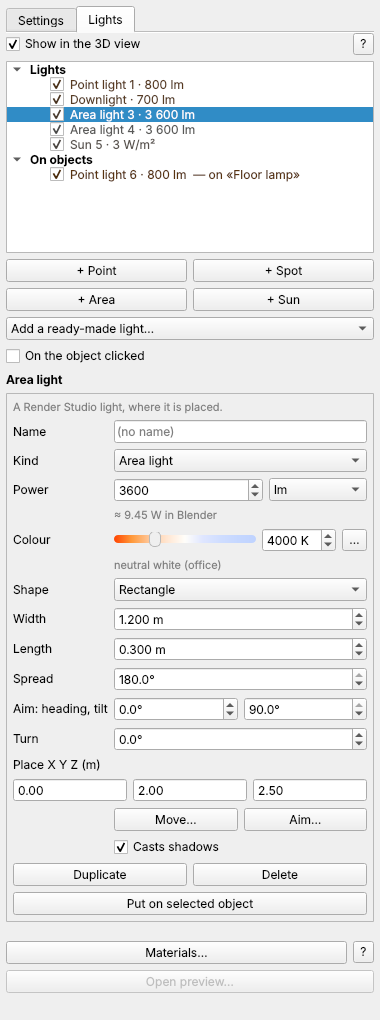
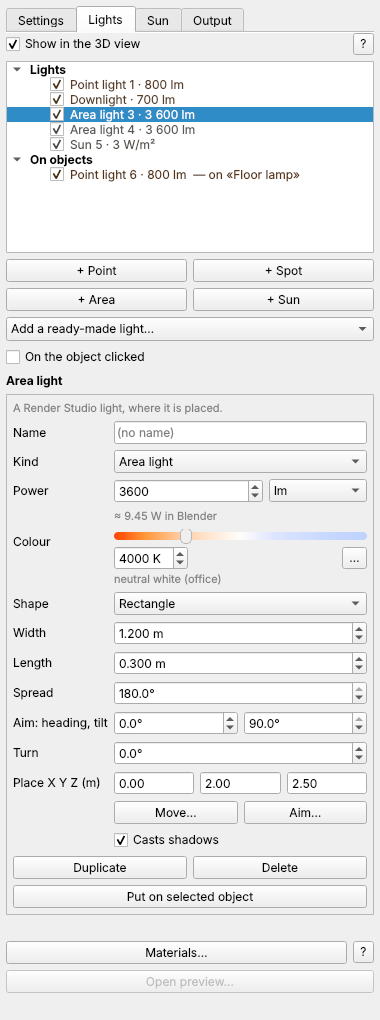
Render Studio 0.12.0: the new tabs fit a narrow tray
The colour temperature bar is on a line of its own and stretches; the
kelvins, the tone's name and «…» go under it. Number boxes no longer ask
for the width of their widest value (±1 000 000 for a place), list boxes
may be narrower than their longest entry, and the Sun tab's buttons have
no 80-pixel minimum (Morning / Noon / Evening, Spring / Summer / Autumn /
Winter). Each tab now needs about 212 px instead of 287; a test keeps it
under 230.

Claude-Session: https://claude.ai/code/session_01Ur1Gqby288dnbaSzKbx9Ps

diff --git a/render_studio/sun_panel.py b/render_studio/sun_panel.py
@@ -12,7 +12,7 @@ import math
 
 from PySide6.QtCore import QDate, Qt, QTime, QTimer
 from PySide6.QtWidgets import (QCheckBox, QComboBox, QDateEdit, QDoubleSpinBox, QFormLayout, QGridLayout,
-                               QHBoxLayout, QLabel, QPushButton, QSlider, QTimeEdit, QToolButton,
+                               QHBoxLayout, QLabel, QPushButton, QSizePolicy, QSlider, QTimeEdit, QToolButton,
                                QVBoxLayout, QWidget)
 
 from . import sun_site as S
@@ -24,6 +24,15 @@ def _bold(text: str) -> QLabel:
     f.setBold(True)
     lab.setFont(f)
     return lab
+
+
+def _wide_button(text: str) -> QToolButton:
+    """A button that fills its share of a row but, unlike a push button, has no
+    80-pixel minimum: three of them fit a narrow tray."""
+    b = QToolButton()
+    b.setText(text)
+    b.setSizePolicy(QSizePolicy.Expanding, QSizePolicy.Fixed)
+    return b
 
 
 def _note() -> QLabel:
@@ -71,13 +80,17 @@ class SunTab(QWidget):
         self.lon.setSuffix("°")
         self.lon.setToolTip("Longitude: east positive, west negative")
         for w in (self.lat, self.lon):
+            w.setMinimumWidth(72)                      # not as wide as ±180.0000 asks: the tray is narrow
+            w.setButtonSymbols(QDoubleSpinBox.NoButtons)   # typed, not stepped
+            w.setSizePolicy(QSizePolicy.Ignored, w.sizePolicy().verticalPolicy())
             w.setKeyboardTracking(False)
             w.valueChanged.connect(self._location_edited)
         lrow = QHBoxLayout()
         lrow.setContentsMargins(0, 0, 0, 0)
         lrow.addWidget(self.lat)
         lrow.addWidget(self.lon)
-        self.map_btn = QPushButton("Map…")
+        self.map_btn = QToolButton()
+        self.map_btn.setText("Map…")
         self.map_btn.setToolTip("Choose the place on a map")
         self.map_btn.clicked.connect(self._pick_on_map)
         lrow.addWidget(self.map_btn)
@@ -108,10 +121,12 @@ class SunTab(QWidget):
         srow = QGridLayout()
         srow.setContentsMargins(0, 0, 0, 0)
         self.season_btns = {}
-        for i, (key, label) in enumerate((("spring", "Spring equinox"), ("summer", "Summer solstice"),
-                                          ("autumn", "Autumn equinox"), ("winter", "Winter solstice"))):
-            b = QPushButton(label)
-            b.setToolTip("As the site lives it: summer is June in the north, December in the south")
+        for i, (key, label, tip) in enumerate((("spring", "Spring", "The spring equinox"),
+                                               ("summer", "Summer", "The summer solstice"),
+                                               ("autumn", "Autumn", "The autumn equinox"),
+                                               ("winter", "Winter", "The winter solstice"))):
+            b = _wide_button(label)
+            b.setToolTip(tip + ", as the site lives it: summer is June in the north, December in the south")
             b.clicked.connect(lambda _c=False, k=key: self._season(k))
             self.season_btns[key] = b
             srow.addWidget(b, i // 2, i % 2)
@@ -121,6 +136,8 @@ class SunTab(QWidget):
         trow = QHBoxLayout()
         trow.setContentsMargins(0, 0, 0, 0)
         self.time_slider = QSlider(Qt.Horizontal)
+        self.time_slider.setMinimumWidth(40)
+        self.time_slider.setSizePolicy(QSizePolicy.Ignored, QSizePolicy.Fixed)
         self.time_slider.setRange(0, 1439)
         self.time_slider.setSingleStep(5)
         self.time_slider.setPageStep(60)
@@ -137,8 +154,11 @@ class SunTab(QWidget):
         form2.addRow("", self.daylight)
         qrow = QHBoxLayout()
         qrow.setContentsMargins(0, 0, 0, 0)
-        for label, which in (("Sunrise + 1 h", "morning"), ("Noon", "noon"), ("Sunset − 1 h", "evening")):
-            b = QPushButton(label)
+        for label, which, tip in (("Morning", "morning", "An hour after sunrise"),
+                                  ("Noon", "noon", "Solar noon: the sun at its highest"),
+                                  ("Evening", "evening", "An hour before sunset")):
+            b = _wide_button(label)
+            b.setToolTip(tip)
             b.clicked.connect(lambda _c=False, w=which: self._quick(w))
             qrow.addWidget(b)
         qbox = QWidget()
@@ -150,6 +170,8 @@ class SunTab(QWidget):
             self.zone.addItem(f"UTC{h:+d}", h)
         self.zone.setToolTip("The clock the hour is read on. «From the longitude» is solar time; choose the "
                              "real zone (summer time included) to match a watch.")
+        self.zone.setSizeAdjustPolicy(QComboBox.AdjustToMinimumContentsLengthWithIcon)
+        self.zone.setMinimumContentsLength(8)
         self.zone.currentIndexChanged.connect(lambda _i: self._edit(utc_offset=self.zone.currentData()))
         form2.addRow("Time zone", self.zone)
         self.shadows = QCheckBox("Shadows in the 3D view")

diff --git a/render_studio/lights_panel.py b/render_studio/lights_panel.py
@@ -26,7 +26,7 @@ from PySide6.QtCore import QSettings, Qt, QTimer
 from PySide6.QtGui import QColor
 from PySide6.QtWidgets import (QAbstractItemView, QCheckBox, QColorDialog, QComboBox,
                                QDoubleSpinBox, QFileDialog, QFormLayout, QFrame, QGridLayout, QHBoxLayout,
-                               QLabel, QLineEdit, QPushButton, QSlider, QSpinBox, QToolButton,
+                               QLabel, QLineEdit, QPushButton, QSizePolicy, QSlider, QSpinBox, QToolButton,
                                QTreeWidget, QTreeWidgetItem, QVBoxLayout, QWidget)
 
 from . import light_ops as ops, light_view, lights as L
@@ -37,6 +37,14 @@ SECTION = {"free": "Lights", "object": "On objects", "tab": "From IngeTrazo's Re
 IES_FILTER = "IES profiles (*.ies *.IES)"
 
 
+def _narrow(w, least: int = 48):
+    """A number box as narrow as the tray needs: Qt sizes it for its widest value
+    (a range of ±1 000 000 asks for a lot), and a row of them would overflow."""
+    w.setMinimumWidth(least)
+    w.setSizePolicy(QSizePolicy.Ignored, w.sizePolicy().verticalPolicy())
+    return w
+
+
 def _spin(lo, hi, decimals, step, suffix="", tip=""):
     s = QDoubleSpinBox()
     s.setRange(lo, hi)
@@ -45,7 +53,7 @@ def _spin(lo, hi, decimals, step, suffix="", tip=""):
     s.setSuffix(suffix)
     s.setKeyboardTracking(False)        # one change when the typing ends, not one per digit
     s.setToolTip(tip)
-    return s
+    return _narrow(s)
 
 
 def _kelvin_groove() -> str:
@@ -128,6 +136,8 @@ class LightsTab(QWidget):
         for key, kind, label, _v in L.PRESETS:
             self.preset.addItem(f"{label}", key)
         self.preset.activated.connect(self._preset_chosen)
+        self.preset.setSizeAdjustPolicy(QComboBox.AdjustToMinimumContentsLengthWithIcon)
+        self.preset.setMinimumContentsLength(8)
         prow.addWidget(self.preset, 1)
         lay.addLayout(prow)
         self.on_object = QCheckBox("On the object clicked")
@@ -183,14 +193,18 @@ class LightsTab(QWidget):
         self.power_note.setStyleSheet("color: gray; font-size: 11px")
         ef.addRow("", self.power_note)
 
-        krow = QHBoxLayout()
+        # Two lines, so the row never asks for more width than the tray has: the
+        # temperature bar across, then the kelvins, the tone's name and «…».
+        krow = QVBoxLayout()
         krow.setContentsMargins(0, 0, 0, 0)
+        krow.setSpacing(2)
         self.kelvin = QSlider(Qt.Horizontal)
         self.kelvin.setRange(L.MIN_KELVIN, L.MAX_KELVIN)
         self.kelvin.setSingleStep(100)
         self.kelvin.setPageStep(500)
         self.kelvin.setStyleSheet(_kelvin_groove())
-        self.kelvin.setMinimumWidth(50)
+        self.kelvin.setMinimumWidth(40)
+        self.kelvin.setSizePolicy(QSizePolicy.Ignored, QSizePolicy.Fixed)
         self.kelvin_spin = QSpinBox()
         self.kelvin_spin.setRange(L.MIN_KELVIN, L.MAX_KELVIN)
         self.kelvin_spin.setSingleStep(100)
@@ -200,20 +214,26 @@ class LightsTab(QWidget):
         self.kelvin_spin.valueChanged.connect(self.kelvin.setValue)
         self.kelvin_spin.valueChanged.connect(self._kelvin_named)
         self.kelvin_spin.valueChanged.connect(self._changed)
-        krow.addWidget(self.kelvin, 1)
-        krow.addWidget(self.kelvin_spin)
+        krow.addWidget(self.kelvin)
+        line = QHBoxLayout()
+        line.setContentsMargins(0, 0, 0, 0)
+        line.addWidget(self.kelvin_spin)
+        self.kelvin_label = QLabel("")
+        self.kelvin_label.setStyleSheet("color: gray; font-size: 11px")
+        self.kelvin_label.setWordWrap(True)
+        self.kelvin_label.setSizePolicy(QSizePolicy.Ignored, QSizePolicy.Preferred)
+        line.addStretch(1)
         self.colour_btn = QToolButton()
         self.colour_btn.setText("…")
         self.colour_btn.setToolTip("A colour of your own instead of a temperature")
         self.colour_btn.clicked.connect(self._pick_colour)
-        krow.addWidget(self.colour_btn)
+        line.addWidget(self.colour_btn)
+        krow.addLayout(line)
+        krow.addWidget(self.kelvin_label)
         self.kelvin_row = QWidget()
         self.kelvin_row.setLayout(krow)
         ef.addRow("Colour", self.kelvin_row)
-        self.kelvin_label = QLabel("")
-        self.kelvin_label.setStyleSheet("color: gray; font-size: 11px")
         self.custom = None                  # [r, g, b] when a colour of its own was chosen
-        ef.addRow("", self.kelvin_label)
 
         self.radius = _spin(0.0, 10.0, 3, 0.01, " m", "The bulb's size: bigger gives softer shadows.")
         self.radius.valueChanged.connect(self._changed)

diff --git a/render_studio/output_panel.py b/render_studio/output_panel.py
@@ -18,7 +18,7 @@ from pathlib import Path
 
 from PySide6.QtCore import QSettings, Signal
 from PySide6.QtWidgets import (QCheckBox, QComboBox, QFileDialog, QFormLayout, QHBoxLayout, QLabel,
-                               QLineEdit, QPushButton, QSpinBox, QToolButton, QVBoxLayout, QWidget)
+                               QLineEdit, QPushButton, QSizePolicy, QSpinBox, QToolButton, QVBoxLayout, QWidget)
 
 from . import output as O
 
@@ -31,6 +31,14 @@ def _bold(text: str) -> QLabel:
     f.setBold(True)
     lab.setFont(f)
     return lab
+
+
+def _shrinkable(combo: QComboBox) -> QComboBox:
+    """A list box that may be narrower than its longest entry (the tray is narrow;
+    the open list still shows the entries whole)."""
+    combo.setSizeAdjustPolicy(QComboBox.AdjustToMinimumContentsLengthWithIcon)
+    combo.setMinimumContentsLength(8)
+    return combo
 
 
 class OutputTab(QWidget):
@@ -62,6 +70,7 @@ class OutputTab(QWidget):
         self.size.setToolTip("The picture's size. «Same shape as the 3D view»: the width below, the height "
                              "follows the view.")
         self.size.currentIndexChanged.connect(self._size_chosen)
+        _shrinkable(self.size)
         form.addRow("Size", self.size)
         self.width = QSpinBox()
         self.width.setRange(320, O.MAX_PX)
@@ -75,6 +84,9 @@ class OutputTab(QWidget):
         self.height.setSuffix(" px")
         self.height.setValue(O.DEFAULT["height"])
         self.height.setToolTip("The picture's height in pixels")
+        for w in (self.width, self.height):
+            w.setMinimumWidth(78)
+            w.setSizePolicy(QSizePolicy.Ignored, w.sizePolicy().verticalPolicy())
         self.width.valueChanged.connect(self._width_edited)
         self.height.valueChanged.connect(self._height_edited)
         wrow = QHBoxLayout()
@@ -119,6 +131,7 @@ class OutputTab(QWidget):
                                "OpenEXR keep more of the light for editing elsewhere; they are saved as "
                                "Blender wrote them.")
         self.format.currentIndexChanged.connect(self._format_chosen)
+        _shrinkable(self.format)
         form2.addRow("Format", self.format)
         self.jpeg_quality = QSpinBox()
         self.jpeg_quality.setRange(10, 100)
@@ -140,7 +153,7 @@ class OutputTab(QWidget):
         lay.addWidget(_bold("Save every render"))
         form3 = QFormLayout()
         form3.setRowWrapPolicy(QFormLayout.WrapLongRows)
-        self.autosave = QCheckBox("Also save each final render in a folder")
+        self.autosave = QCheckBox("Save each render in a folder")
         self.autosave.setChecked(str(st.value(_SETTINGS + "autosave", "false")).lower() in ("true", "1"))
         self.autosave.toggled.connect(self._remember_autosave)
         form3.addRow(self.autosave)

diff --git a/render_studio/help_text.py b/render_studio/help_text.py
@@ -162,10 +162,10 @@ becomes the model's location: the map and the terrain follow it too. Without one
 default place.</td></tr>
 <tr><td valign='top'><b>North</b></td><td>Where true north lies, clockwise from the green axis. The shadows turn;
 the model does not move.</td></tr>
-<tr><td valign='top'><b>Date</b></td><td>Day and month; the four buttons give the equinoxes and solstices as the site
-lives them (summer is June in the north, December in the south).</td></tr>
-<tr><td valign='top'><b>Hour</b></td><td>The slider and the box; <b>Sunrise + 1 h</b>, <b>Noon</b> and <b>Sunset − 1 h</b>
-jump there. Daylight shows the hours the sun is up that day.</td></tr>
+<tr><td valign='top'><b>Date</b></td><td>Day and month; <b>Spring</b>, <b>Summer</b>, <b>Autumn</b> and <b>Winter</b> give the equinoxes and solstices as
+the site lives them (summer is June in the north, December in the south).</td></tr>
+<tr><td valign='top'><b>Hour</b></td><td>The slider and the box; <b>Morning</b> (an hour after sunrise), <b>Noon</b> (solar
+noon) and <b>Evening</b> (an hour before sunset) jump there. Daylight shows the hours the sun is up that day.</td></tr>
 <tr><td valign='top'><b>Time zone</b></td><td>The clock the hour is read on: from the longitude (solar time), or a real
 zone (summer time included) to match a watch.</td></tr>
 <tr><td valign='top'><b>Shadows in the 3D view</b></td><td>IngeTrazo's own sun shadows in the model, with this date

diff --git a/tests/test_sun_output_offline.py b/tests/test_sun_output_offline.py
@@ -191,5 +191,12 @@ ok(kept and Path(kept).is_file() and Path(kept).parent == auto and Path(kept).su
 out.autosave.setChecked(False)
 ok(panel._autosave() is None, "…only when asked")
 
+# ---- a narrow tray --------------------------------------------------------------------------
+for name, t in (("Lights", panel.lights_tab), ("Sun", panel.sun_tab), ("Output", panel.output_tab)):
+    for i, e in enumerate(L.all_lights(scene)[:1] if name == "Lights" else [None]):
+        if e is not None:
+            t.select(e["key"])
+    ok(t.minimumSizeHint().width() <= 230, f"the {name} tab fits a narrow tray ({t.minimumSizeHint().width()} px at least)")
+
 print("FAILED" if fails else "ALL PASSED", len(fails))
 sys.exit(1 if fails else 0)

diff --git a/README.md b/README.md
@@ -254,8 +254,8 @@ so the 3D view's shadows, the Render tab and Render Studio show the same sun. Ea
 
 - **Latitude, longitude**, typed or chosen on a map (**Map…**): it becomes the model's location (the map and
   the terrain follow it too). **North**: where true north lies; the shadows turn, the model does not.
-- **Date**, with the equinoxes and solstices as the site lives them (summer is December in the south);
-  **Hour** on a slider, with **Sunrise + 1 h**, **Noon** (solar noon) and **Sunset − 1 h**; the **time zone**
+- **Date**, with **Spring**, **Summer**, **Autumn** and **Winter** (the equinoxes and solstices as the site lives them: summer is December in the south);
+  **Hour** on a slider, with **Morning** (sunrise + 1 h), **Noon** (solar noon) and **Evening** (sunset − 1 h); the **time zone**
   (from the longitude, or a real one); **Shadows in the 3D view**.
 - **The sun then**: its height, where it comes from, how long the shadows are; and what the look does with it
   (Golden hour lowers it to 7°, Overcast and Night have none, a 360° background that lights the scene brings
